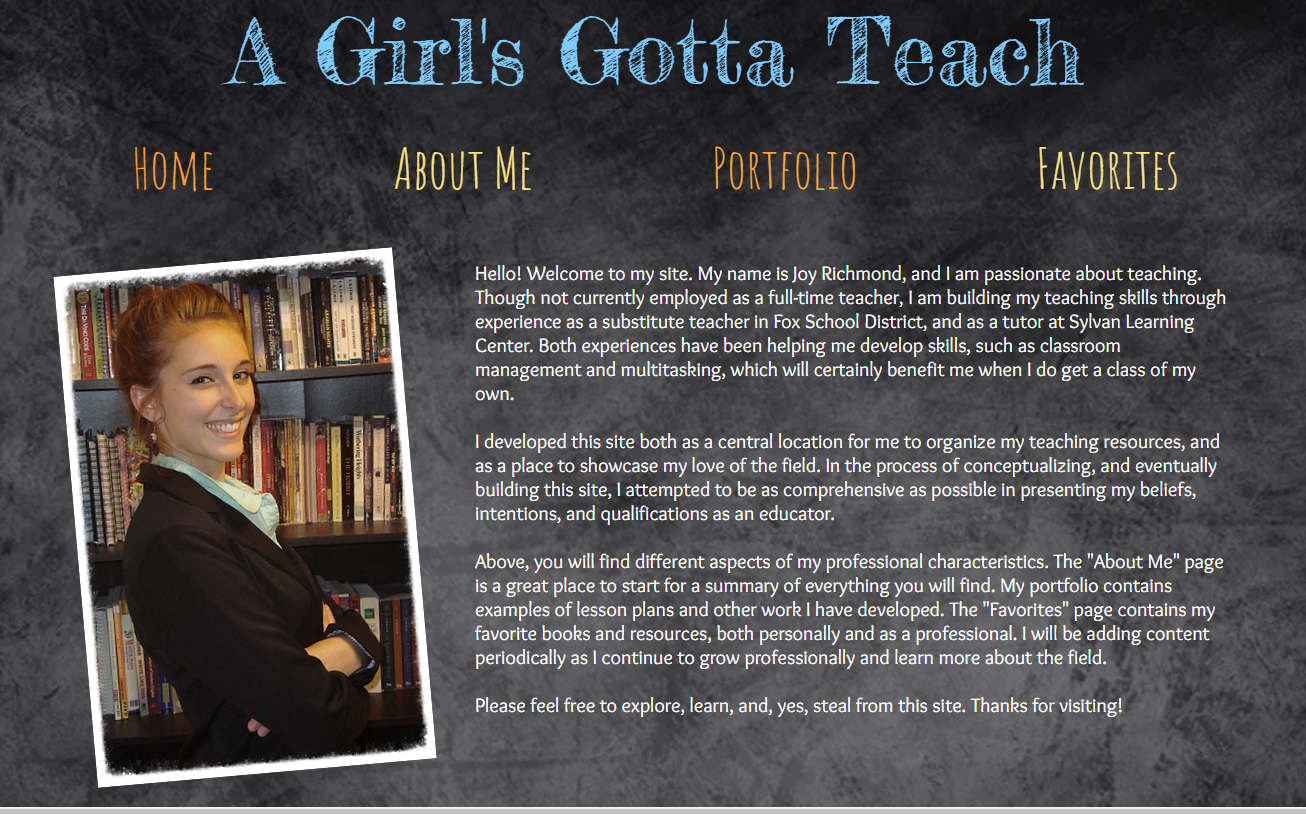
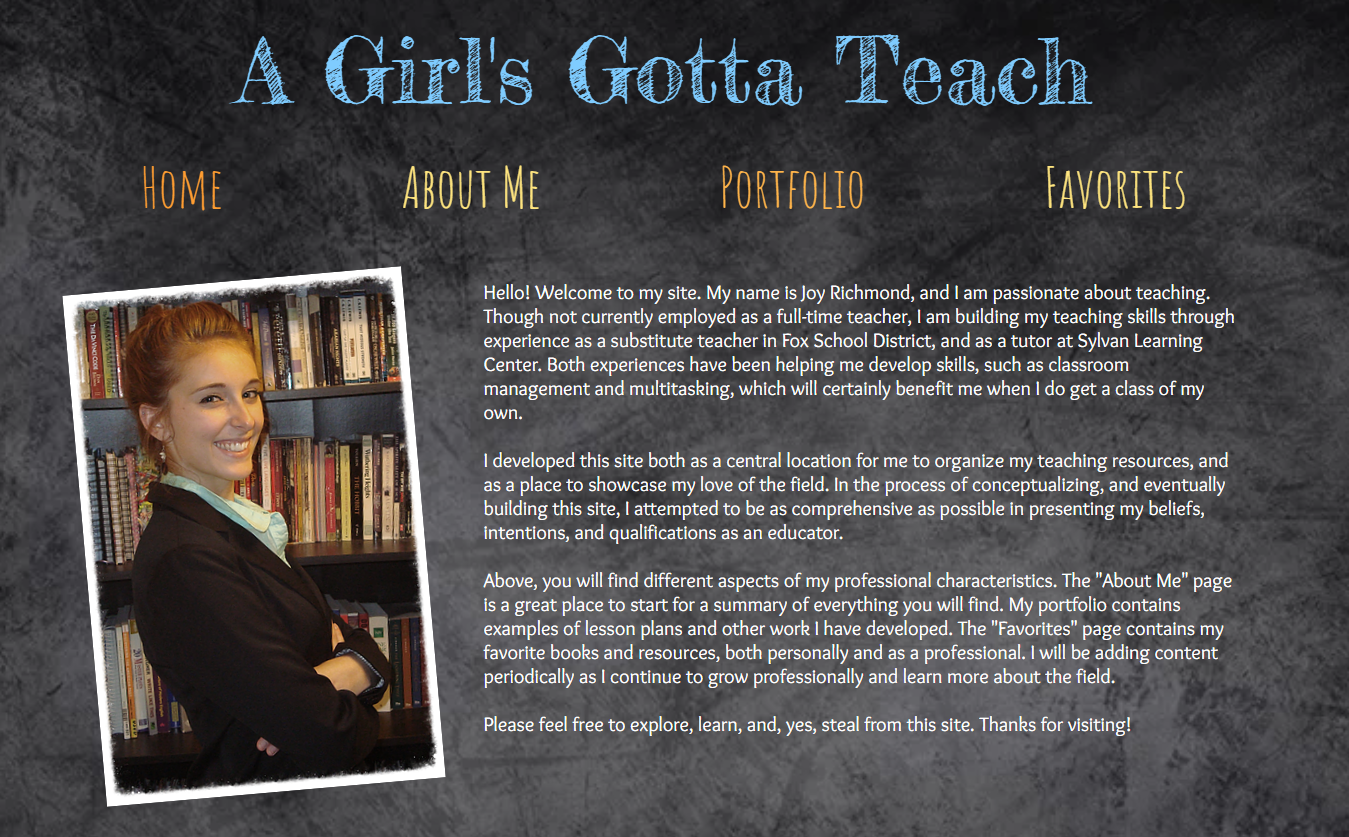
website-descriptions.1.2

diff --git a/index.html b/index.html
@@ -22,11 +22,23 @@
             <div class="website-descriptions">
                 <h2>A GIRL'S GOTTA TEACH</h2>
                 <h4>PURPOSE</h4>
-                <p>Showcase teaching style and educational artifacts.
+                <p>To showcase teaching style and educational artifacts.
                 </p>
                 <h4>DESIGN EMPHASIS</h4>
                 <p>
-                    <i>Learn new technologies quickly.</i> I built this website from scratch with no experience using Wix.
+                    <i>Learn New Technologies</i>
+                    <br> I built this website from scratch with no experience using Wix.
+                </p>
+                <h4>PERSONAL SKILLS</h4>
+                <p>
+                    <i>Critical Thinking</i>
+                    <br> I completed original research and developed my own curriculum framework in a
+                    <a href="http://joyrichmond.wixsite.com/joy-richmond-website/senior-capstone" target="_blank">Senior Capstone Project</a>.</p>
+                <p>
+                    <i>Creative Problem Soliving</i>
+                    <br> This website contains several
+                    <a href="http://joyrichmond.wixsite.com/joy-richmond-website/lesson-plans" target="_blank">lesson plans</a> I developed using a variety of technologies to meet learning goals in unique and innovate
+                    ways.
                 </p>
             </div>
             <a class="images" href="http://joyrichmond.wixsite.com/joy-richmond-website" target="_blank">
@@ -44,5 +56,7 @@
             </a>
         </div>
     </div>
+    <footer style="min-height: 100px">
+    </footer>
 
 </html>

diff --git a/styles.css b/styles.css
@@ -17,13 +17,14 @@ left: 1em;
 }
 
 #squares-2 {
-    margin: 1em 0 0 1em;
+    margin: 0 1em 0 0;
 border-style: none;
 z-index: -1;
 position: fixed;
 top: 13em;
 right: 1em;
-transform: scaleX(-1) rotate(180deg)}
+transform: scaleX(-1) rotate(180deg)
+}
 
 #headerbar {
     margin: 13em 0 13em 0;
@@ -48,11 +49,16 @@ h3 {
 }
 
 .container {
-    padding: 0;
-    margin: 0;
+    padding: 4em 0;
     text-align: center;
-    background-color: rgba(0, 0, 0, 0.85)
+    background-color: rgba(0, 0, 0, 0.85);
+    border-left: 1px solid white;
+    border-right: 1px solid white;
+    margin: 0 2em;
+    max-width: 27em;
+    justify-content: space-evenly;
 }
+
 #webimages{
     display: flex;  
 }
@@ -63,7 +69,7 @@ h2 {
 }
 
 .website-descriptions {
-    margin: 3em 6em 3em 6em;
+    margin: 0 6em 3em 6em;
 }
 
 h4 {
@@ -77,11 +83,14 @@ p {
     margin: 0 0 1em 0;
     text-align: left;
 }
-
-br {
-
+p>a {
+    color: #b2b2b2;
+    text-decoration: none;
 }
 
+p>a:hover {
+    color: #8aa4ce;
+}
 .images{
     flex: 1 1 auto;
     text-align: center;
@@ -90,8 +99,6 @@ br {
 .portfolio-img{
     max-width: 75%;
     height: auto;
-    border: 0.05em solid white;
-    padding: 2em;
     background-color: rgba(0, 0, 0, 0.85);
     filter: brightness(60%);
 }
